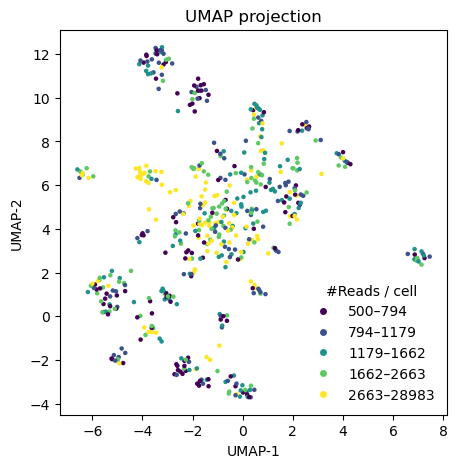
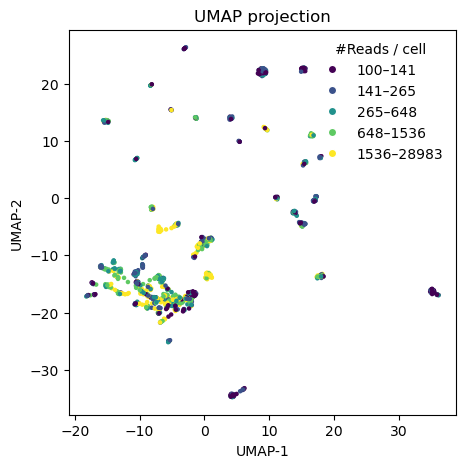
added the read threshold experiment

diff --git a/_includes/section4.html b/_includes/section4.html
@@ -200,7 +200,7 @@
 
 
 <p>
-    Set the <code>var feature</code> to be <b>2000,5000 and 20000</b> w/(top figure) and w/o (down figure) smooth algorithm. :<br>
+    Read threshold (100), set the <code>var feature</code> to be <b>2000 (left),5000 (middle) and 20000 (right)</b> w/(top figure) and w/o (down figure) smooth algorithm. :<br>
 </p>
 <img src="results/section4/miniread10_thresdhold100_drop0.9_smooth_pool1n2.png" width="180" alt="origin">
 <img src="results/section4/miniread10_thresdhold100_drop0.75_smooth_pool1n2.png" width="180" alt="origin">
@@ -208,3 +208,13 @@
 <img src="results/section4/miniread10_thresdhold100_drop0.9_nosmooth_pool1n2.png" width="180" alt="origin">
 <img src="results/section4/miniread10_thresdhold100_drop0.75_nosmooth_pool1n2.png" width="180" alt="origin">
 <img src="results/section4/miniread10_thresdhold100_drop0_nosmooth_pool1n2.png" width="180" alt="origin">
+
+<p>
+    Read threshold (500), set the <code>var feature</code> to be <b>2000 (left),5000 (middle) and 20000 (right)</b> w/(top figure) and w/o (down figure) smooth algorithm. :<br>
+</p>
+<img src="results/section4/miniread10_thresdhold500_drop0.9_smooth_pool1n2.png" width="180" alt="origin">
+<img src="results/section4/miniread10_thresdhold500_drop0.75_smooth_pool1n2.png" width="180" alt="origin">
+<img src="results/section4/miniread10_thresdhold500_drop0_smooth_pool1n2.png" width="180" alt="origin">
+<img src="results/section4/miniread10_thresdhold500_drop0.9_nosmooth_pool1n2.png" width="180" alt="origin">
+<img src="results/section4/miniread10_thresdhold500_drop0.75_nosmooth_pool1n2.png" width="180" alt="origin">
+<img src="results/section4/miniread10_thresdhold500_drop0_nosmooth_pool1n2.png" width="180" alt="origin">
